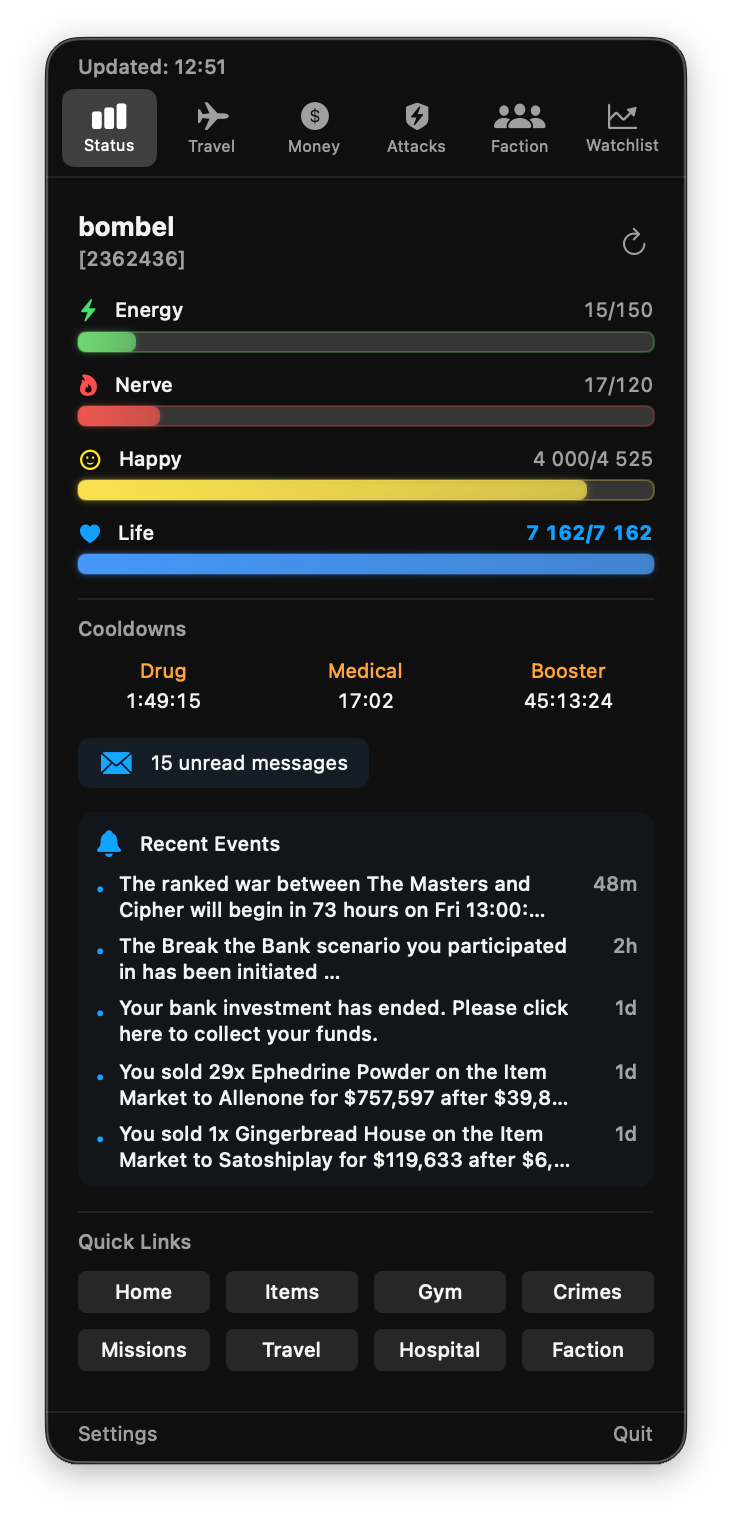
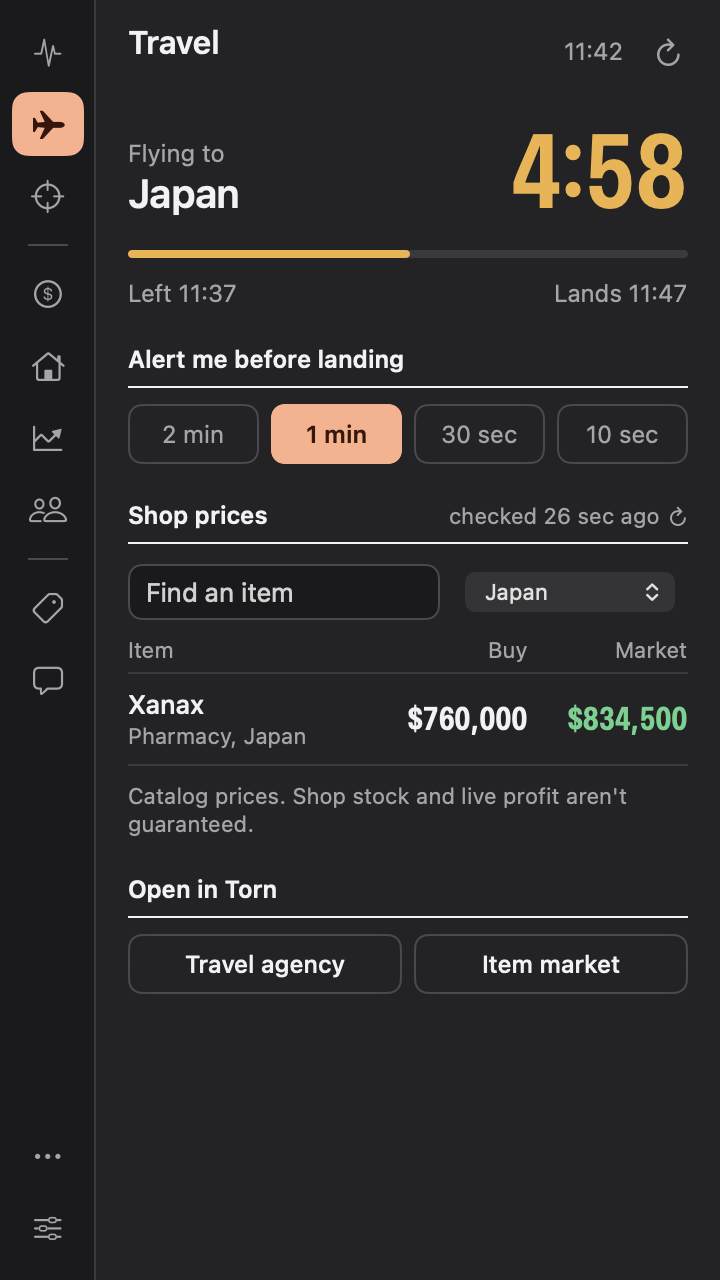
release: v2.0.0 — the dispatch board
Version 2.0.0 (build 58): the redesigned interface. CHANGELOG and README describe
the rail, the Status timeline, Travel, the shop-price lookup and Settings › Modules;
the README screenshots are renders of the new Status and Travel.

Also fixes the UI test that has been red in CI since 1.16.5: the forum poll replaced
the two thread states the watch-accessibility fixture seeds, so the fixture now
answers for those threads the way Torn would.

Claude-Session: https://claude.ai/code/session_0176CU4VT8jKfBAdToyYCAqE

diff --git a/MacTorn/MacTorn/Helpers/SnapshotSupport.swift b/MacTorn/MacTorn/Helpers/SnapshotSupport.swift
@@ -18,6 +18,10 @@ import SwiftUI
 //   -uitest-snapshot-appearance light   "light", "dark" or both when absent
 //   -uitest-window-height 1400          taller than the panel, to see below the fold
 //   -uitest-snapshot-seed 0             only what the canned network returns (modules off)
+//   -uitest-snapshot-healthy 1          forget endpoint failures before drawing. The canned
+//                                       network answers most calls with an empty object, so
+//                                       every tab otherwise carries a "Stale" notice; this
+//                                       is for screenshots of the app working normally
 //   -uitest-fixture / -uitest-apikey    as for UI tests; no key renders onboarding
 
 extension UITestConfiguration {
@@ -29,6 +33,7 @@ extension UITestConfiguration {
     /// "0" renders only what the canned network returns: optional modules off, lists
     /// empty. Anything else (the default) adds `SnapshotFixtures`.
     static var snapshotSeedsExtras: Bool { snapshotArgument(snapshotSeedKey) != "0" }
+    static var snapshotForgetsFailures: Bool { snapshotArgument("-uitest-snapshot-healthy") == "1" }
 
     private static func snapshotArgument(_ key: String) -> String? {
         let args = ProcessInfo.processInfo.arguments
@@ -110,6 +115,10 @@ enum SnapshotRunner {
             }
             for (appearanceName, appearance) in UITestConfiguration.snapshotAppearances {
                 if hasAccount, UITestConfiguration.snapshotSeedsExtras { SnapshotFixtures.seed(appState) }
+                if UITestConfiguration.snapshotForgetsFailures {
+                    appState.requester.health.reset()
+                    appState.errorMsg = nil
+                }
                 let root = rootView(for: screen, appState: appState, navigation: navigation)
                 let file = directory.appendingPathComponent("\(screen.name)-\(appearanceName).png")
                 await render(root, appearance: appearance, to: file)

diff --git a/MacTorn/MacTorn/Helpers/UITestSupport.swift b/MacTorn/MacTorn/Helpers/UITestSupport.swift
@@ -262,6 +262,11 @@ final class FixtureNetworkSession: NetworkSession, @unchecked Sendable {
             return (try? JSONSerialization.data(withJSONObject: fixture)) ?? Data("{}".utf8)
         }
 
+        if scenario == .watchAccessibility,
+           let fixture = watchAccessibilityResponse(for: url) {
+            return (try? JSONSerialization.data(withJSONObject: fixture)) ?? Data("{}".utf8)
+        }
+
         let json: [String: Any]
         switch (isKeyInfo, isFastUser, scenario) {
         case (true, _, .invalidKey):
@@ -289,6 +294,22 @@ final class FixtureNetworkSession: NetworkSession, @unchecked Sendable {
             json = [:]
         }
         return (try? JSONSerialization.data(withJSONObject: json)) ?? Data("{}".utf8)
+    }
+
+    /// The two seeded forum threads, as Torn would answer for them. The forum poll runs as
+    /// soon as the panel appears; with an empty object for an answer it replaced the seeded
+    /// error with "Unexpected response" and put the same error on the healthy thread, so
+    /// the test's two states vanished before it could look at them.
+    private static func watchAccessibilityResponse(for url: URL?) -> [String: Any]? {
+        switch url?.path {
+        case "/v2/forum/101/thread":
+            // Code 17 (backend error) is shown with Torn's own wording.
+            return ["error": ["code": 17, "error": "Fixture forum unavailable."]]
+        case "/v2/forum/102/thread":
+            return ["thread": ["id": 102, "title": "Healthy forum thread", "posts": 8]]
+        default:
+            return nil
+        }
     }
 
     private static func accessibilityResponse(for url: URL?) -> [String: Any]? {

diff --git a/README.md b/README.md
@@ -11,9 +11,9 @@ forum updates without keeping the game open.
 [![License: MIT](https://img.shields.io/badge/License-MIT-green)](LICENSE)
 
 <p align="center">
-  <img src="app_light_1.png" alt="MacTorn in light mode" width="320">
+  <img src="app_light_1.png" alt="MacTorn's Status screen in light mode: the four bars, what is ready now and what is counting down" width="360">
   &nbsp;&nbsp;
-  <img src="app_dark_1.png" alt="MacTorn in dark mode" width="320">
+  <img src="app_dark_1.png" alt="MacTorn's Travel screen in dark mode during a flight: the landing countdown, landing alerts and shop prices at the destination" width="360">
 </p>
 
 ## Highlights
@@ -21,7 +21,10 @@ forum updates without keeping the game open.
 - **Always-visible state:** the menu bar shows travel, hospital, jail, or the next
   cooldown as a live countdown.
 - **Nine focused modules:** Status, Travel, Attacks, Money, Properties, Stocks,
-  Faction, Watchlist, and Forums are grouped into a compact 320 pt popover.
+  Faction, Watchlist, and Forums, each one click away on an icon rail in a compact
+  360 pt panel.
+- **Built around the countdown:** Status lists what is ready now and everything that is
+  counting down, soonest first, in one timeline; colour means state and nothing else.
 - **Actionable notifications:** bar thresholds, cooldowns, landing, release, chain
   expiry, Organized Crime readiness, virus completion, bounties, item prices, forum posts
   and threads, and app updates.
@@ -37,11 +40,14 @@ forum updates without keeping the game open.
 
 ### Now
 
-- **Status:** Energy, Nerve, Happy, and Life; cooldowns; Next Action timeline;
-  daily refills; education; virus programming; hospital/jail state; bounties; waiting
-  messages, events, awards and competitions; chain status; and eight Torn quick links.
-- **Travel:** live flight and arrival countdowns, all 11 destinations, current
-  standard and Private Island airstrip estimates, pre-arrival alerts, and travel links.
+- **Status:** Energy, Nerve, Happy, and Life; "Ready now" actions for finished cooldowns,
+  refills and stock bonuses; the "Next up" timeline of bars, cooldowns, landing,
+  hospital/jail release, education, Organized Crime, virus programming and the chain;
+  bounties; waiting messages, events, awards and competitions; recent events; and eight
+  Torn quick links.
+- **Travel:** the landing countdown with departure and arrival times, flight times to all
+  11 destinations for standard and Private Island airstrip travel, pre-arrival alerts,
+  and travel links.
 - **Attacks:** battle stats, total battle stat score, and recent attack outcomes with
   direct links to relevant Torn pages.
 
@@ -154,9 +160,11 @@ and private vulnerability-reporting channel.
 MacTorn follows system Reduce Transparency, Reduce Motion, Increase Contrast, and
 light/dark appearance settings. Its status surfaces expose semantic VoiceOver labels,
 including live menu bar state, progress values, financial rows, attacks, events, chain,
-and status badges. Long modules remain scrollable in the fixed-size popover.
+and status badges. Every colour is opaque, so Reduce Transparency only affects the backdrop
+behind a prompt. Long modules remain scrollable in the fixed-size panel.
 
-Keyboard commands are available from the app's **Commands** menu:
+Keyboard commands are available from the **…** menu at the bottom of the rail and from the
+app's **Commands** menu:
 
 | Shortcut | Action |
 | --- | --- |
@@ -171,18 +179,21 @@ with every macOS assistive setting remains an ongoing release-quality activity; 
 
 ## Optional Torn API v2 tools
 
-Enable each module in its existing tab; notifications are separately opt-in:
+Enable each module in **Settings › Modules**; it then appears inside its tab.
+Notifications are separately opt-in, per module:
 
-- **Faction:** open OC slots with a minimum CPR filter, plus on-demand ranked-war,
-  raid, territory, completed-chain and dirty-bomb history with older-page loading.
+- **Faction:** open OC slots at or above a minimum pass rate (set in Settings), plus
+  on-demand ranked-war, raid, territory, completed-chain and dirty-bomb history with
+  older-page loading.
 - **Stocks:** v2 holdings, fractional cost basis, bonus progress and ready alerts.
-  Enabling this replaces stock holdings in the fast v1 poll; ready bonuses also appear in Next Action.
+  Enabling this replaces stock holdings in the fast v1 poll; ready bonuses also appear under "Ready now" on Status.
 - **Status:** current competition (Elimination, Rock Paper Scissors, Halloween, Easter Egg Hunt),
   Elimination team standings, remaining players and attacks during the last completed minute,
   plus the Torn calendar: running and upcoming events. Team data is requested only during Elimination.
 - **Money:** active trades, change alerts and on-demand offered-item details.
-- **Travel / Watchlist:** searchable country shop prices compared with catalog or
-  last-known watchlist prices. Prices do not guarantee live shop inventory or profit.
+- **Travel:** a shop-price lookup by item name or country, compared with catalog or
+  last-known watchlist prices. It opens on the country you are flying to or standing in.
+  Prices do not guarantee live shop inventory or profit.
 
 Modules preserve the last successful data with its checked time and error message on
 failures. Account changes discard responses and alert baselines. Initial loads do not
@@ -285,7 +296,7 @@ Developer ID workflow.
 ### Architecture
 
 ```text
-MacTornApp / ContentView
+MacTornApp / ContentView (module rail + header + one view per tab, built from Views/Design)
 └── AppState (@MainActor facade)
     ├── TornRequester             The one request pipeline: gate, budget, health, throttle
     ├── PlayerState               Torn data for the signed-in account

diff --git a/CHANGELOG.md b/CHANGELOG.md
@@ -5,6 +5,54 @@ All notable changes to MacTorn will be documented in this file.
 The format is based on [Keep a Changelog](https://keepachangelog.com/en/1.0.0/),
 and this project adheres to [Semantic Versioning](https://semver.org/spec/v2.0.0.html).
 
+## [2.0.0] - 2026-11-11 - The dispatch board
+
+The whole interface is redesigned. Nothing about what MacTorn reads from Torn, how often,
+or what it notifies you about has changed.
+
+### Changed
+- **One visual language.** Flat surfaces, sections under a rule, rows closed by hairlines,
+  countdowns in large condensed numerals. Colour means state (ready, counting, alert) and
+  nothing else; the tinted cards are gone.
+- **Navigation is an icon rail** down the left edge: every module is one click away, with
+  Settings and a menu for commands and Quit at the bottom. The two rows of group and module
+  buttons and the footer are gone. The panel is 360 pt wide (was 320).
+- **Status** leads with the four bars on one line each, then "Ready now" (finished
+  cooldowns, refills, stock bonuses as buttons that open the right Torn page) and "Next up":
+  one timeline of everything counting down, soonest first. Your state (Okay, flying, in
+  hospital) is under your name in the header.
+- **Travel** makes the landing countdown the headline during a flight, with departure and
+  landing times. Landing alerts are four on/off chips; flight times are a table.
+- **Shop prices are a lookup**, not a list: type an item or pick a country. It opens on the
+  country you are flying to, shows the cheapest shop per item and caps at 12 rows.
+- **Optional modules are switched on in Settings › Modules.** Their switches, alert
+  options, "Last checked" lines and Refresh buttons no longer sit above the content of five
+  tabs; each module shows one small "checked … ago" button in its heading that refreshes it.
+- Every other tab, Settings, Diagnostics, Credits and the two prompts are rebuilt on the
+  same system. Money and Properties lead with the total; Watchlist rows show the price and
+  turn green at or under your alert.
+- Numbers use Torn's format (1,250,000) everywhere, whatever the Mac's region.
+- The window a desktop widget opens is the same panel at the same width.
+
+### Moved
+- Your player ID: from the Status header to Settings › Account.
+- The minimum pass rate for open OC slots: to Settings › Modules.
+- Shop prices: Travel only (they were also at the top of Watchlist).
+
+### Removed
+- The "Refills claimed" and "Education: complete" lines on Status; the row or button is
+  simply absent once there is nothing to do.
+- Per-shop price lines beyond the cheapest shop for an item ("+N more" says how many).
+
+### Notes
+- Hiding a category in Settings now removes its countdown from Status entirely (it used to
+  affect only the one-line "Next" strip). Drug, Medical and Booster still appear under
+  "Ready now" once they are over.
+- Unit tests passed locally and in CI. The UI tests were rewritten for the rail; the one
+  that had been failing in CI since 1.16.5 (forum error text replaced by the first poll in
+  the test fixture) is fixed in the fixture.
+- Desktop widgets are unchanged.
+
 ## [1.16.5] - 2026-11-11 - Torn's hourly market cache
 
 Torn restricted its API on 11 November 2026: item-market listings are now cached for an
